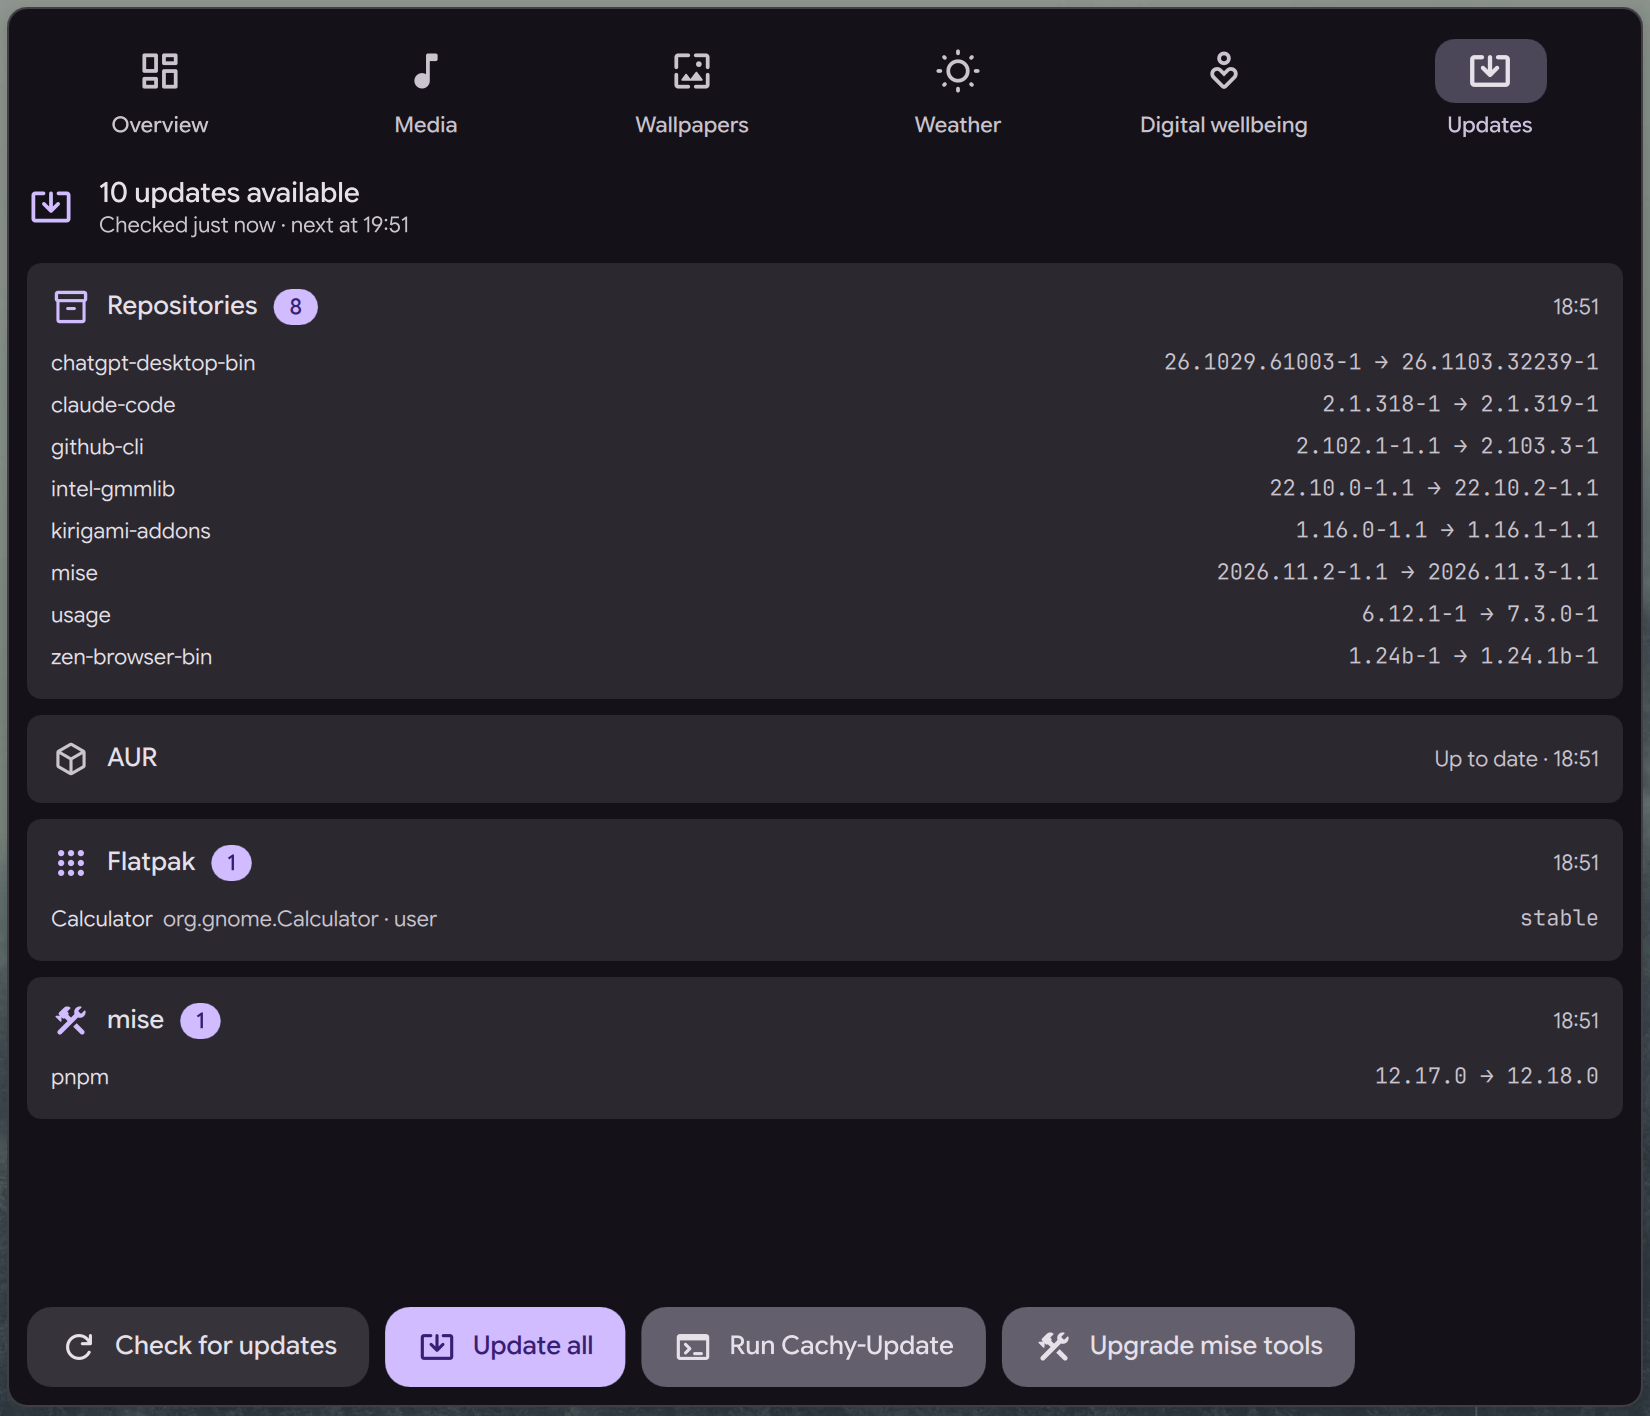
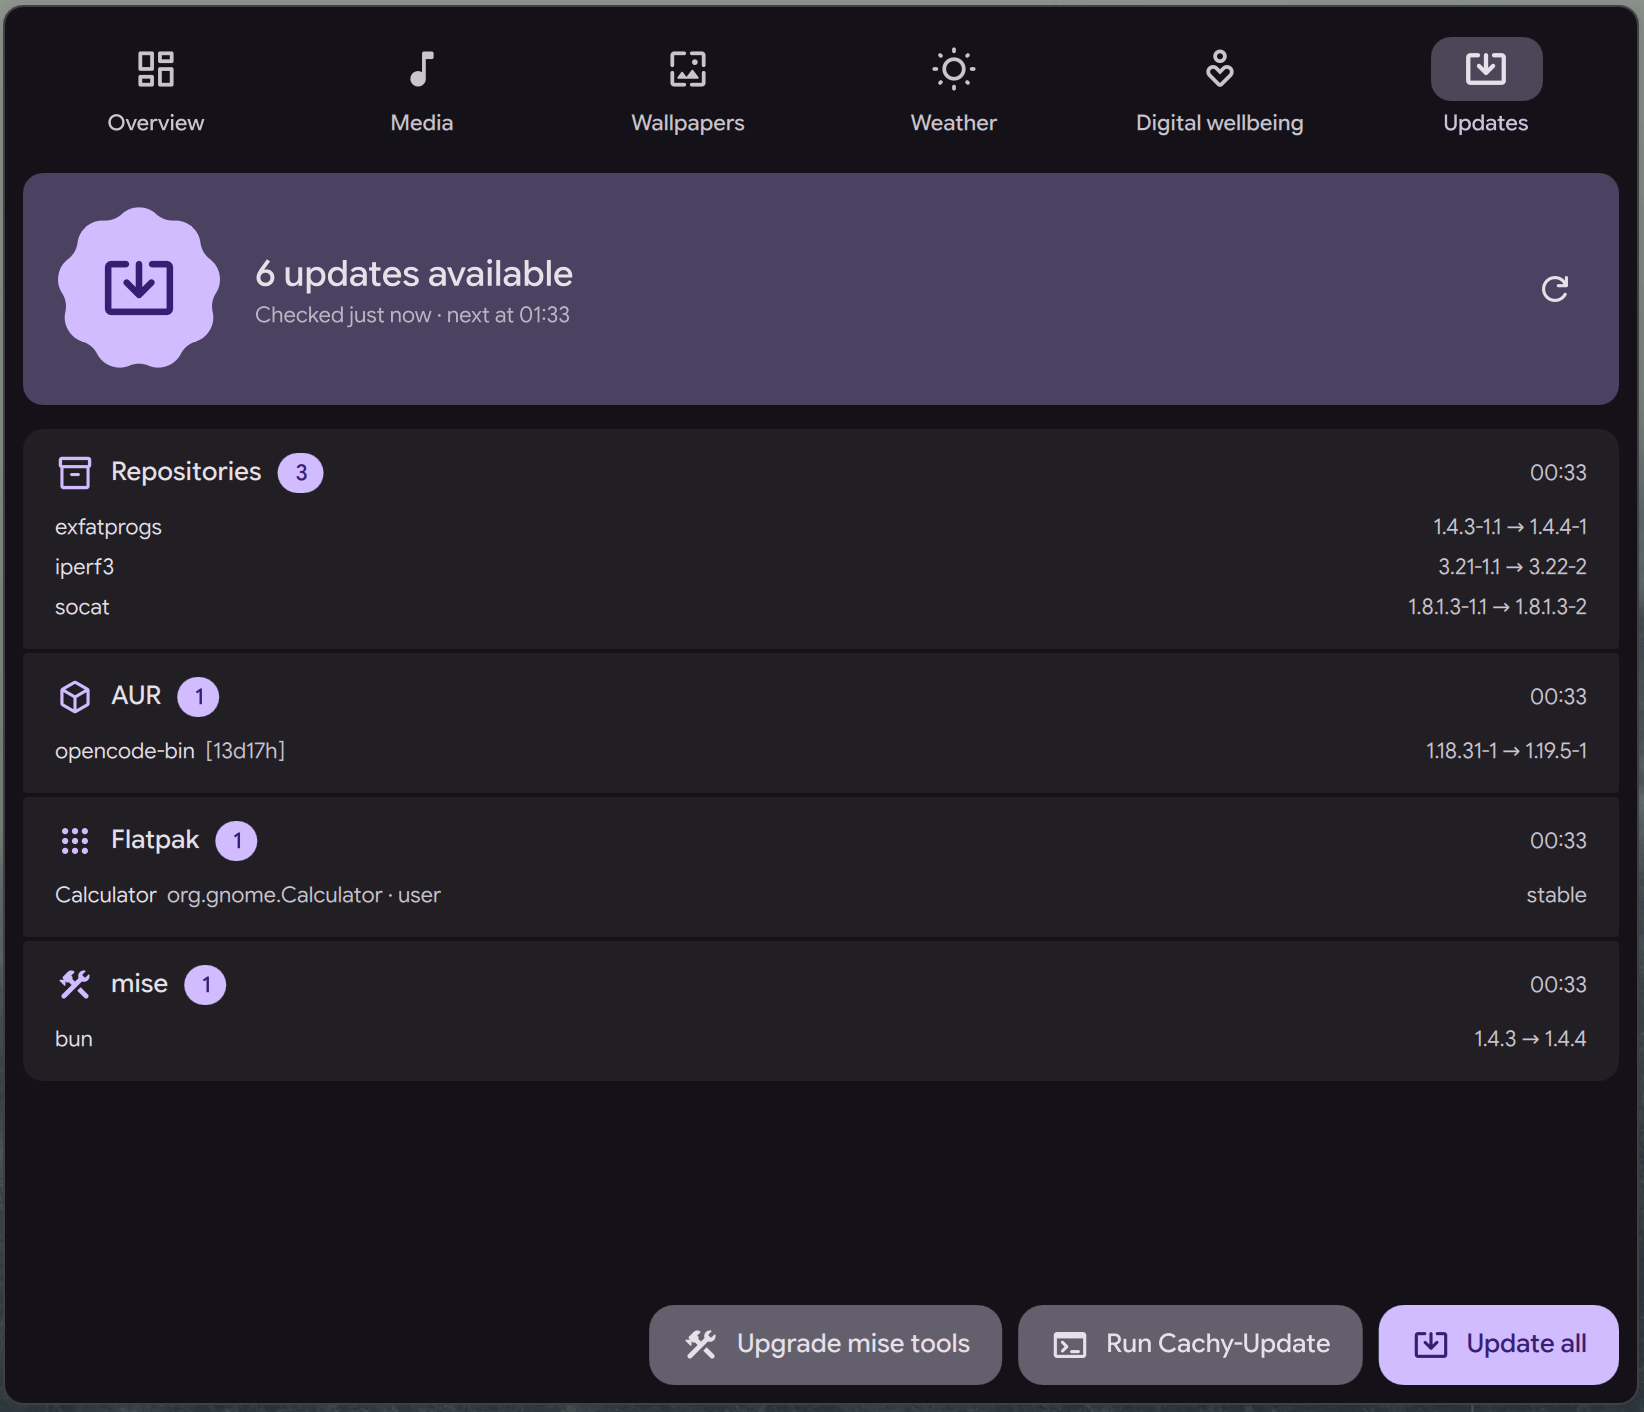
Retake the README screenshots for the new look
The popout, dashboard tab and settings page on the default purple theme,
with an update in every source. The bar around the pill is blurred in
the popout shot, and the settings page is two shots joined. Alt texts
and the surface table describe the summary card instead of the removed
"Check for updates" button.

diff --git a/README.md b/README.md
@@ -16,18 +16,18 @@ The plugin only checks, displays and launches. It never runs an update on its ow
 
 This is a community plugin, not affiliated with Arch Linux or CachyOS.
 
-<img src="assets/popout.png" width="446" alt="The bar pill showing 10 updates, and its popout listing repository, Flatpak and mise updates with the Update all, System and mise buttons">
+<img src="assets/popout.png" width="422" alt="The bar pill showing 6 updates, and its popout: a summary card with the update count and a re-check button, then repository, AUR, Flatpak and mise updates, and the mise, System and Update all buttons">
 
 ## Surfaces
 
 | Surface | Behaviour |
 | --- | --- |
 | Bar pill | Icon and update count. Hidden, taking no space, when there is nothing to update. Background checks never make it appear or flash. Click: popout. Right click: dashboard tab. The icon is in the accent color, or the warning color if some check failed. |
-| Popout | Sources with updates or problems, a re-check button, and *Update all* / *System* / *mise*. |
-| Dashboard tab *Updates* | Every source with its status, last check time, errors and warnings; a re-check button, the same update actions, and *Bump mise versions…* when upgrades exist past the configured versions. Available while the pill is hidden: `dms ipc call dash open plugin_archUpdates`. |
+| Popout | A summary card (update count, last check, re-check button), the sources with updates or problems, and *Update all* / *System* / *mise*. |
+| Dashboard tab *Updates* | The same summary card, with the next check time; every source with its status, last check time, errors and warnings; the same update actions, and *Bump mise versions…* when upgrades exist past the configured versions. Available while the pill is hidden: `dms ipc call dash open plugin_archUpdates`. |
 | Settings | Settings → Plugins → Arch Updates: system update method, check interval, timeout, terminal override, mise options. |
 
-<img src="assets/dashboard.png" width="825" alt="The Updates dashboard tab: every source with its status and last check time, and the Check for updates, Update all, Run Cachy-Update and Upgrade mise tools buttons">
+<img src="assets/dashboard.png" width="822" alt="The Updates dashboard tab: the summary card with the update count and next check time, every source with its updates and last check time, and the Upgrade mise tools, Run Cachy-Update and Update all buttons">
 
 ## How checking works
 
@@ -88,7 +88,7 @@ Settings → Plugins → Arch Updates → *System update method*:
 The buttons name the command they run (*Run Cachy-Update*, *Run yay -Syu*…). If the chosen tool
 is uninstalled later, updates fall back to *Direct* and the settings page says so.
 
-<img src="assets/settings.png" width="624" alt="The plugin's settings page: system update method (Automatic, Cachy-Update, Direct), check interval, timeout, terminal command and mise options">
+<img src="assets/settings.png" width="614" alt="The plugin's settings page: system update method (Automatic, Cachy-Update, Direct), check interval, timeout, terminal command and mise options">
 
 ### Terminal
 
